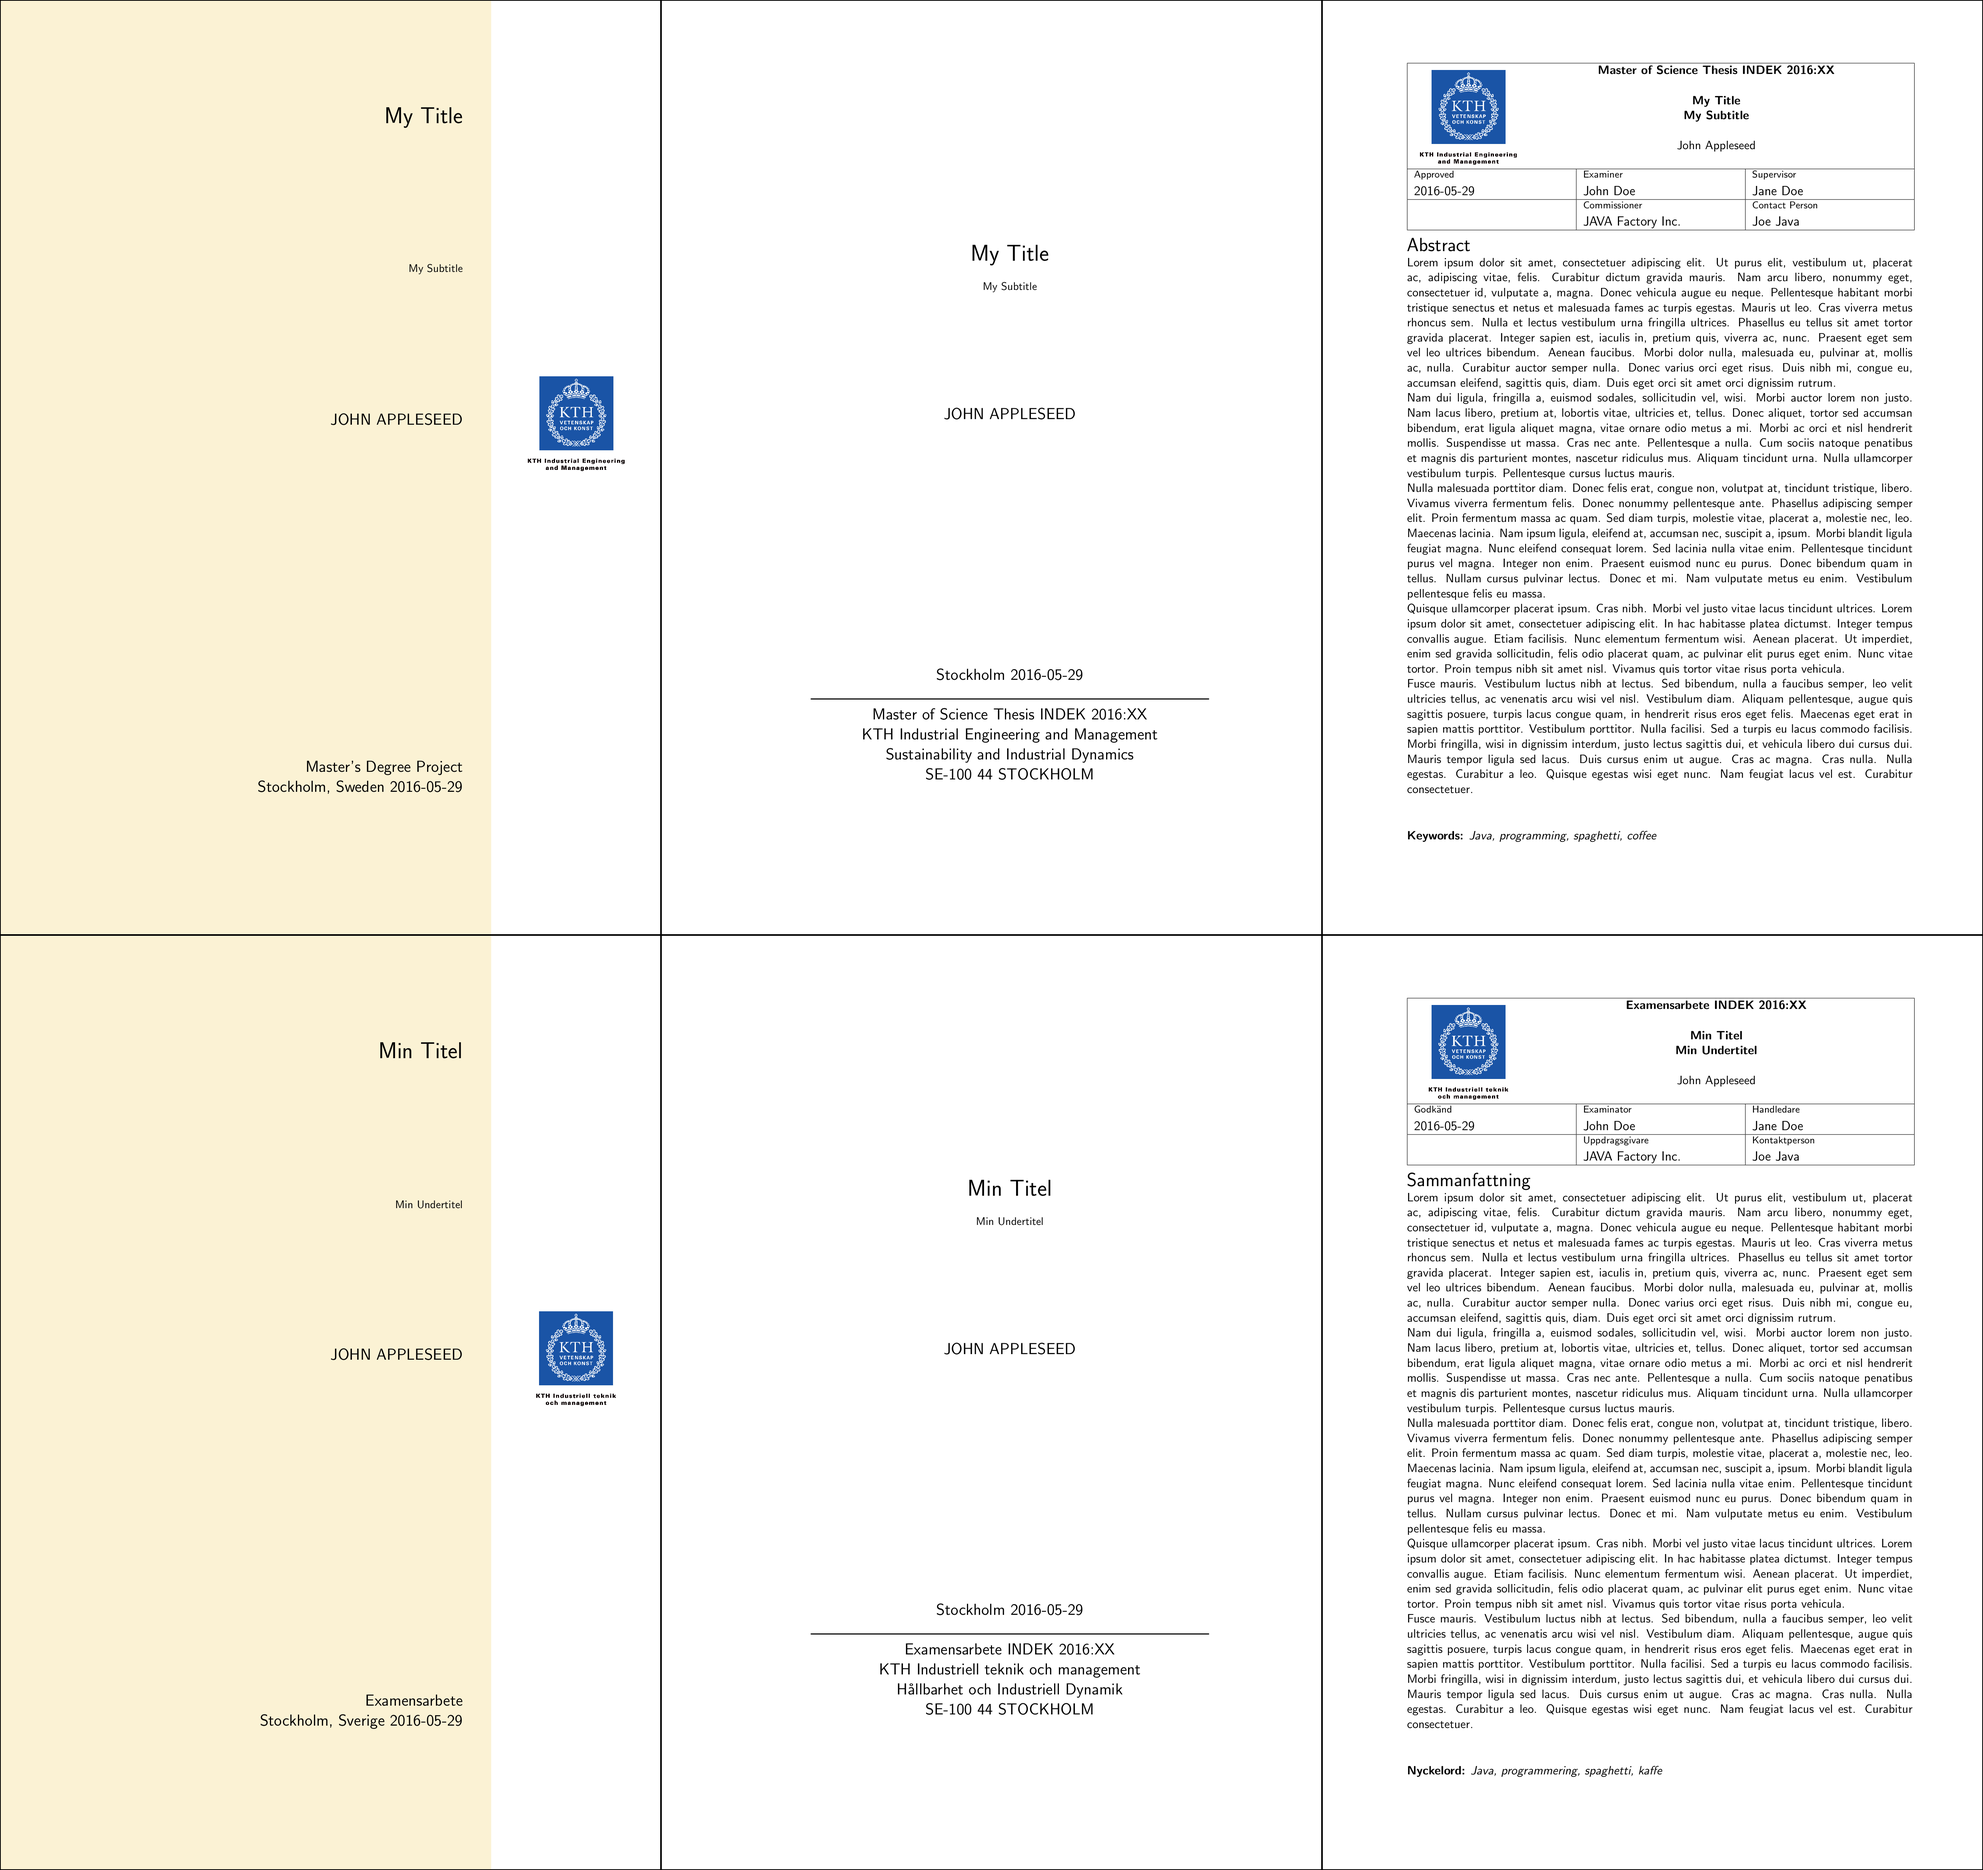
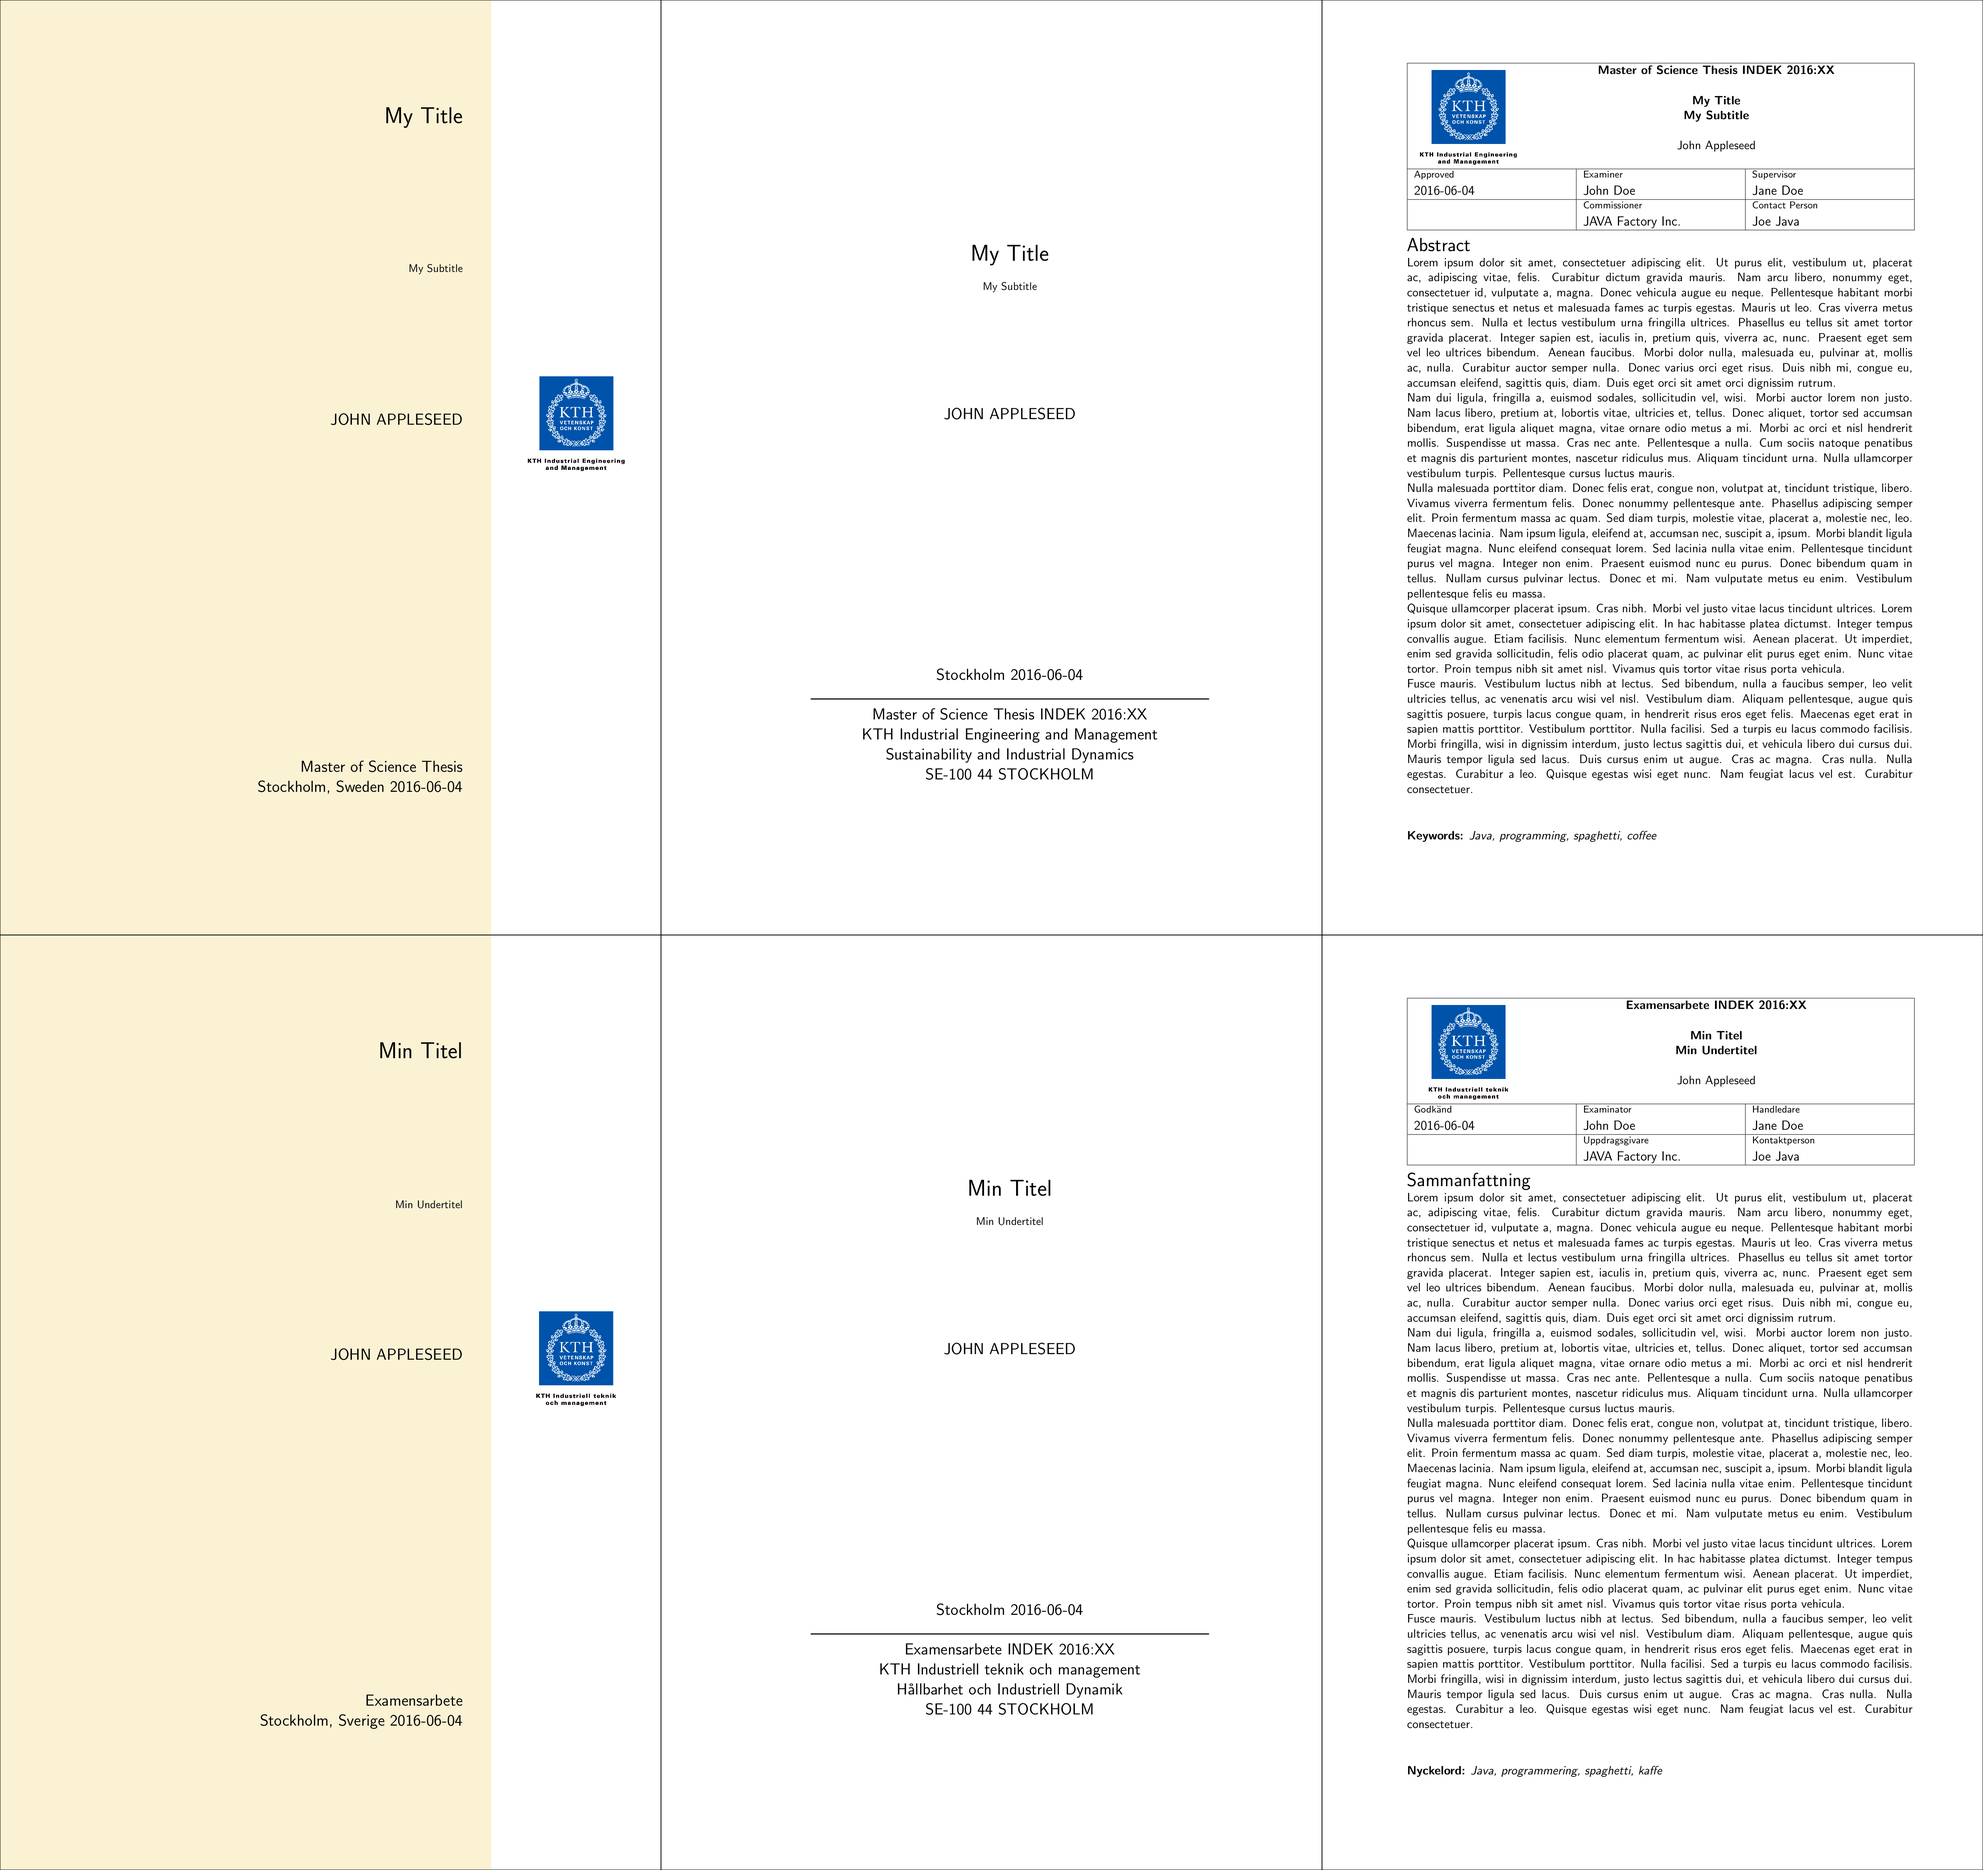
Updated example

diff --git a/example.tex b/example.tex
@@ -13,7 +13,7 @@
 \newcommand{\mySubtitle}{My Subtitle}
 \newcommand{\mySubtitleSWE}{Min Undertitel}
 \newcommand{\myAuthor}{John Appleseed}
-\newcommand{\myDate}{2016-05-29}
+\newcommand{\myDate}{2016-06-04}
 \newcommand{\myAddress}{Master of Science Thesis INDEK 2016:XX\\ KTH Industrial Engineering and Management \\ Sustainability and Industrial Dynamics \\ SE-100 44 STOCKHOLM}
 \newcommand{\myAddressSWE}{Examensarbete INDEK 2016:XX\\ KTH Industriell teknik och management\\ H\r{a}llbarhet och Industriell Dynamik\\ SE-100 44 STOCKHOLM}
 \newcommand{\myAbstract}{\lipsum[1-5]}
